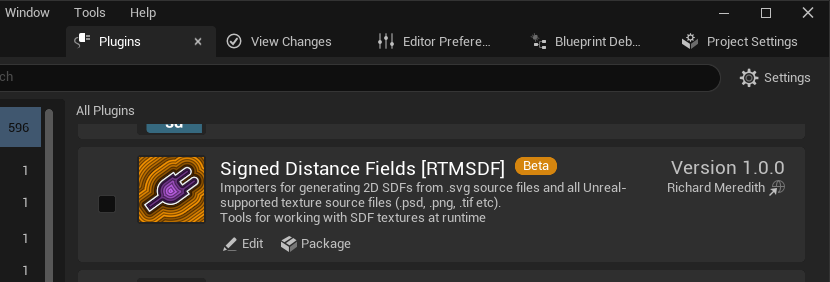
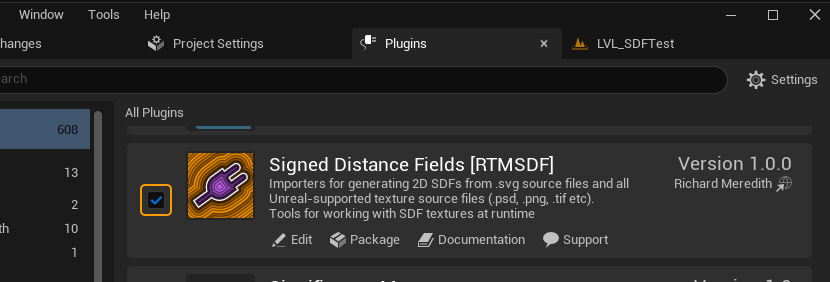
- Docs: Added some clarification on enabling plugin (it may or may not be enabled by default depending on where you get it from - Docs: Added examples of inverted MSDF format

diff --git a/Docs/Generation/Index.md b/Docs/Generation/Index.md
@@ -60,10 +60,13 @@ This determines how far the distance field will exend beyond the edge of the sha
 - **Pixels** - Range in the target SDF. i.e. if the `Texture Size` is 64px and `Pixel Distance` range is 8px, this is equivalent to a normalized range of 0.125
 
 ### Invert Distance
-By default, textues are imported with a distance field encoded with 0 at the innermost position of the field (inside the shape) and 1 at the outermost point of the field. You can invert this, whcih may make it slightly easier to see what shape the distance field represents. However, it's still not that easy to discern the source shape from the SDF, so it is recomended to use the asset thumbnail renders for that
+By default, textues are imported with a distance field encoded with 0 at the innermost position of the field (inside the shape) and 1 at the outermost point of the field. You can invert this, whcih may make it slightly easier to see what shape the distance field represents. However, it's still not that easy to discern the source shape from the SDF (see below), so it is recomended to use the asset thumbnail renders for that
 
 ![](Images/InversionExample_Source.png) &nbsp; ![](Images/InversionExample_NonInverted.png) &nbsp; ![](Images/InversionExample_Inverted.png)
 <br/>*Examples of Non-Inverted (center) and Inverted (right) Distance Field textures, alongside source shape (left)*
+
+![](Images/InversionExample_MSDF_Source.png) &nbsp; ![](Images/InversionExample_MSDF_NonInverted.png) &nbsp; ![](Images/InversionExample_MSDF_Inverted.png)
+<br/>*Examples of Non-Inverted (center) and Inverted (right) MSDF textures, alongside source shape (left)*
 
 ### Scale to Fit Distance
 If true, the source shape will scaled so that the full distance field is contained within the texture. This is useful as it means you do not need to author margins into your source files

diff --git a/Docs/Generation/Bitmaps.md b/Docs/Generation/Bitmaps.md
@@ -18,7 +18,9 @@ RTMSDF can import from all bitmap filetypes that Unreal supports, including
 Bitmap SDFs can either be **Single Channel** or **Separate Channel** formats
 
 ### Single Channel
-**Single Channel** SDFs are a greyscale texture holding 1 SDF. This is likely to be the most common kind of SDF you generate and will be the default if you import an single channel source file.
+**Single Channel** SDFs are a greyscale texture holding 1 SDF. This is likely to be the most common kind of SDF you generate and will be the only option if you import an single channel source file
+
+When importing a single channel SDF from a multichannel Source file, you can select which channel from the source will be used for the SDF
 
 > NOTE: Unreal Engine currently treats all .psd as RGBA, even if they are in Greyscale mode. For now, the plugin assumes a PSD should be treated as single channel. If this is not the intent, you can change the SDF `Format` setting and reimport. Future reimports will respect that choice
 

diff --git a/README.md b/README.md
@@ -21,11 +21,12 @@ in either your `{Project}/Plugins/` or `{Engine}/Plugins/` directory
 
 ## Quick Start
 ### 1. Enable the Plugin
-Enable the plugin, either by manually adding it to your `.uproject` file, or in editor via the Plugins window:
+Ensure that the plugin is enabled for your project, either by manually adding it to your `.uproject` file,
+or in editor via the Plugins window:
 1. Choose `Edit > Plugins` from the top menu bar
 2. Find the plugin called **Signed Distance Fields [RTMSDF]** or search "RTMSDF"
-3. Check the box to the left of the icon
-4. Restart the editor
+3. Ensure the box to the left of the icon is checked
+4. If you needed to check the box, restart the editor
 
 ![](Docs/Images/Configure_EnablePlugin.png)
 
